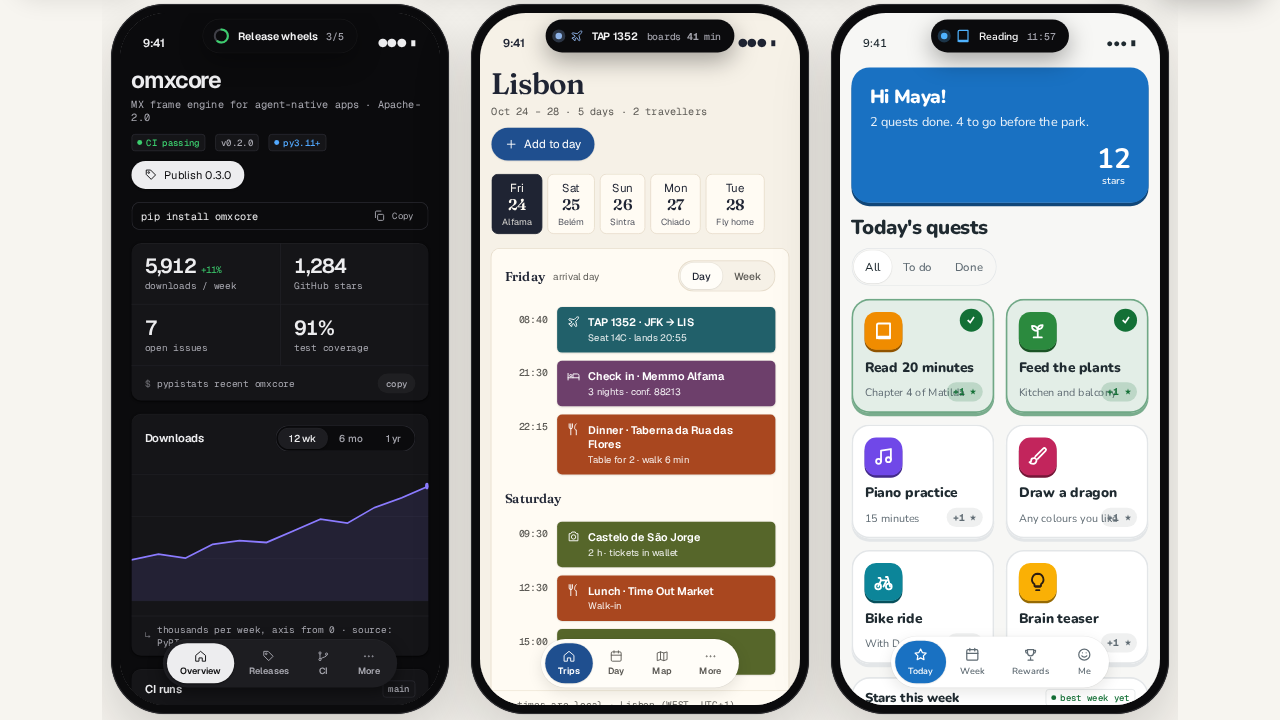
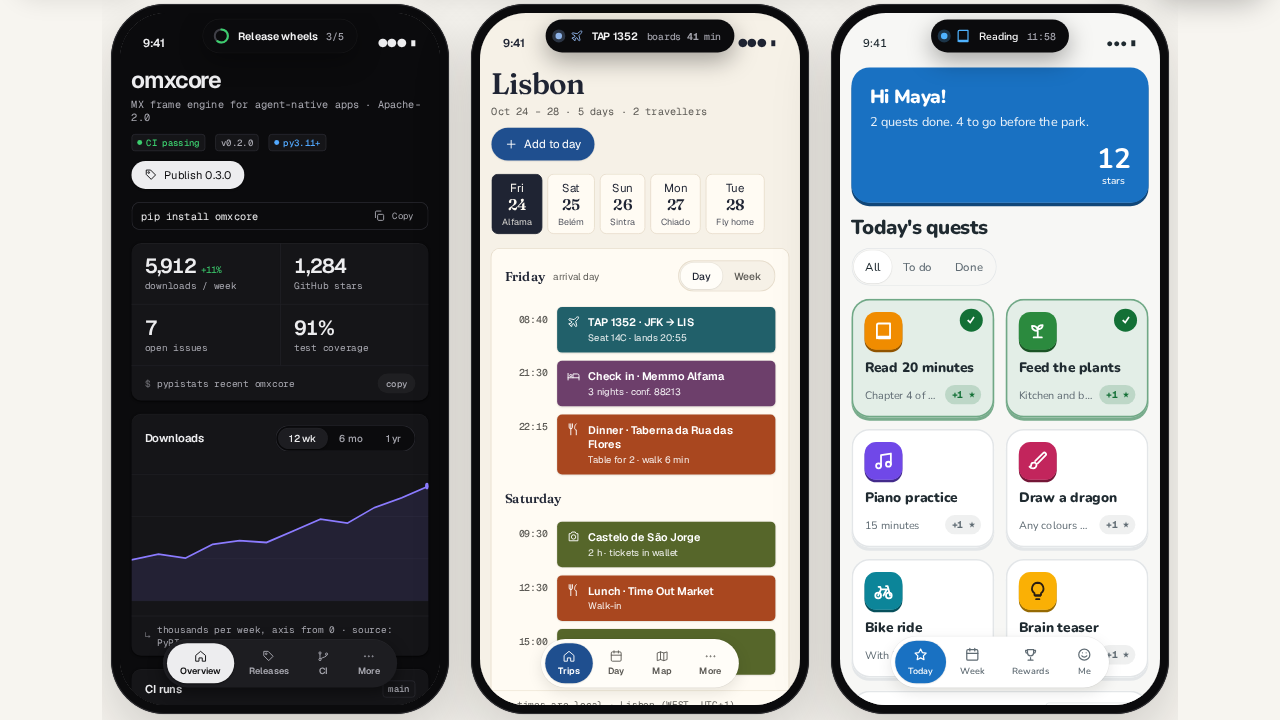
Fix: kids reward chip no longer covers the quest subtitle; fresh README screenshot

Changed region(s): [[0.6562, 0.5194, 0.9062, 0.9778], [0.8125, 0.9472, 0.875, 0.9778]]

diff --git a/docs/showcase.html b/docs/showcase.html
@@ -152,7 +152,9 @@ body.bare .bar { display: none; } body.bare .stagewrap { padding: 0; } body.bare
 .tile .ic { width: 46px; height: 46px; border-radius: 14px; display: grid; place-items: center; color: #fff; }
 .tile .ic .ico { width: 24px; height: 24px; stroke-width: 2.2; }
 .tile b { font-size: 1.08em; }
-.tile .rw { position: absolute; right: 14px; bottom: 14px; font: 700 12px var(--oq-font-mono); font-style: normal; padding: 4px 8px; border-radius: 999px; background: rgb(var(--oq-state) / .07); color: var(--oq-ink-2); }
+.tile { min-width: 0; } .tile .ft { min-width: 0; display: flex; align-items: center; gap: 8px; margin-top: auto; font-size: inherit; color: inherit; }
+.tile .ft span { flex: 1; min-width: 0; overflow: hidden; text-overflow: ellipsis; white-space: nowrap; }
+.tile .rw { flex: none; font: 700 12px var(--oq-font-mono); font-style: normal; padding: 4px 8px; border-radius: 999px; background: rgb(var(--oq-state) / .07); color: var(--oq-ink-2); }
 .tile.done .rw { background: color-mix(in srgb, var(--oq-ok) 18%, transparent); color: var(--oq-ok); } .tile span { font-size: .85em; color: var(--oq-ink-2); }
 .tile.done { background: color-mix(in srgb, var(--oq-ok) 12%, var(--oq-surface-1)); }
 .tile.done::after { content: "✓"; position: absolute; top: 12px; right: 14px; width: 28px; height: 28px; border-radius: 50%; background: var(--oq-ok); color: #fff; display: grid; place-items: center; font-weight: 700; }
@@ -364,7 +366,7 @@ function kidsApp() {
   <main class="main">
     <div class="hero"><div><h2>Hi Maya!</h2><p>2 quests done. 4 to go before the park.</p></div><div class="stars">12<small>stars</small></div></div>
     <div class="ph"><div><h1 style="font-size:1.6em">Today's quests</h1></div><span class="sp"></span>${seg(["All", "To do", "Done"], "All")}</div>
-    <div class="tiles">${T.map(([a, i, c, s, d]) => `<button class="tile${d ? " done" : ""}" data-quest style="--c:var(${c})"><span class="ic" style="background:var(--c)${c === "--oq-data-3" ? ";color:#2a1d12" : ""}">${ic(i)}</span><b>${a}</b><span>${s}</span><em class="rw">+1 ★</em></button>`).join("")}</div>
+    <div class="tiles">${T.map(([a, i, c, s, d]) => `<button class="tile${d ? " done" : ""}" data-quest style="--c:var(${c})"><span class="ic" style="background:var(--c)${c === "--oq-data-3" ? ";color:#2a1d12" : ""}">${ic(i)}</span><b>${a}</b><span class="ft"><span>${s}</span><em class="rw">+1 ★</em></span></button>`).join("")}</div>
     <div class="grid g-2e">
       <section class="card"><div class="card-h"><h3>Stars this week</h3><span class="sp"></span><span class="badge ok"><i></i>best week yet</span></div>
         <div class="week">${[["M", 60], ["T", 85], ["W", 40], ["T", 100], ["F", 70], ["S", 20], ["S", 0]].map(([d, v]) => `<div><i><em style="height:${v}%"></em></i>${d}</div>`).join("")}</div>

diff --git a/CHANGELOG.md b/CHANGELOG.md
@@ -4,6 +4,7 @@ All notable changes to omxqua. Versions follow [semver](https://semver.org); eac
 
 ## v0.1.4 · 2026-10-20
 - Borrow it with an agent: `skills/omxqua/SKILL.md`, installable as a Claude Code plugin (`/plugin install omxqua --marketplace abhisheksreesaila/omxqua`) or copied into any agent's skills folder.
+- Fix: Kids quest tiles: the "+1 ★" chip sat on top of the subtitle; it now shares a row with it and the subtitle ends in "…".
 - README rewritten for skimmers: the live site and a screenshot first, why, the three families, "hand it to your agent", the rest folded away.
 - README: "Use it" covers the plugin, the skill, a copy-paste prompt for any agent, jsDelivr links for trying it, and vendoring for shipping.
 
